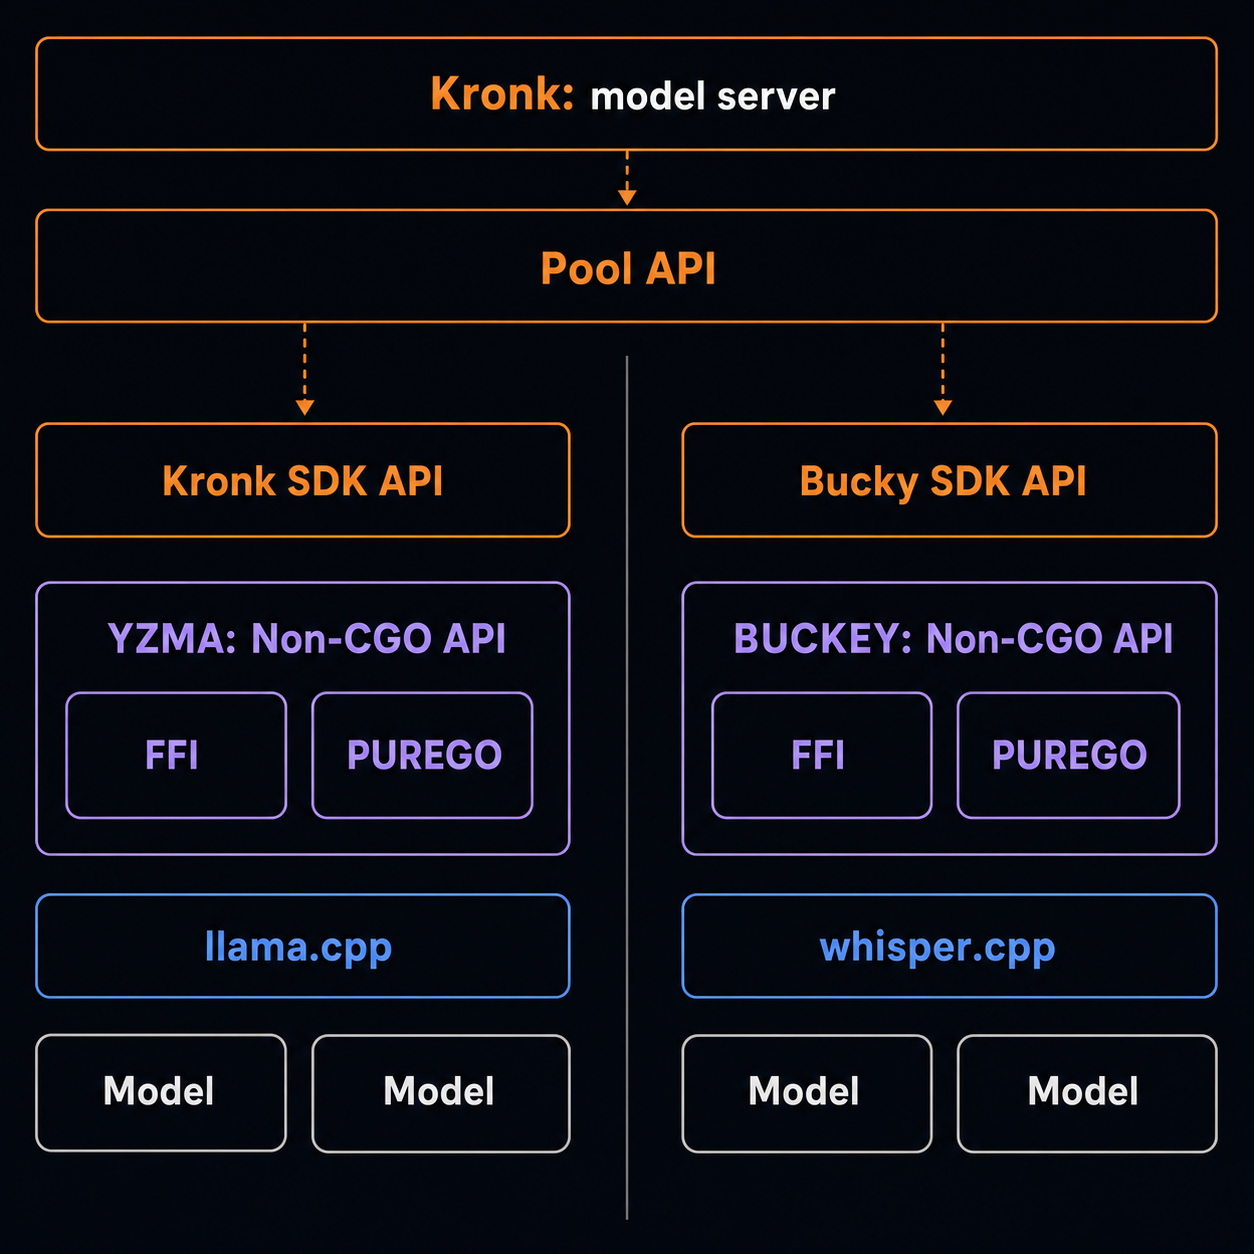
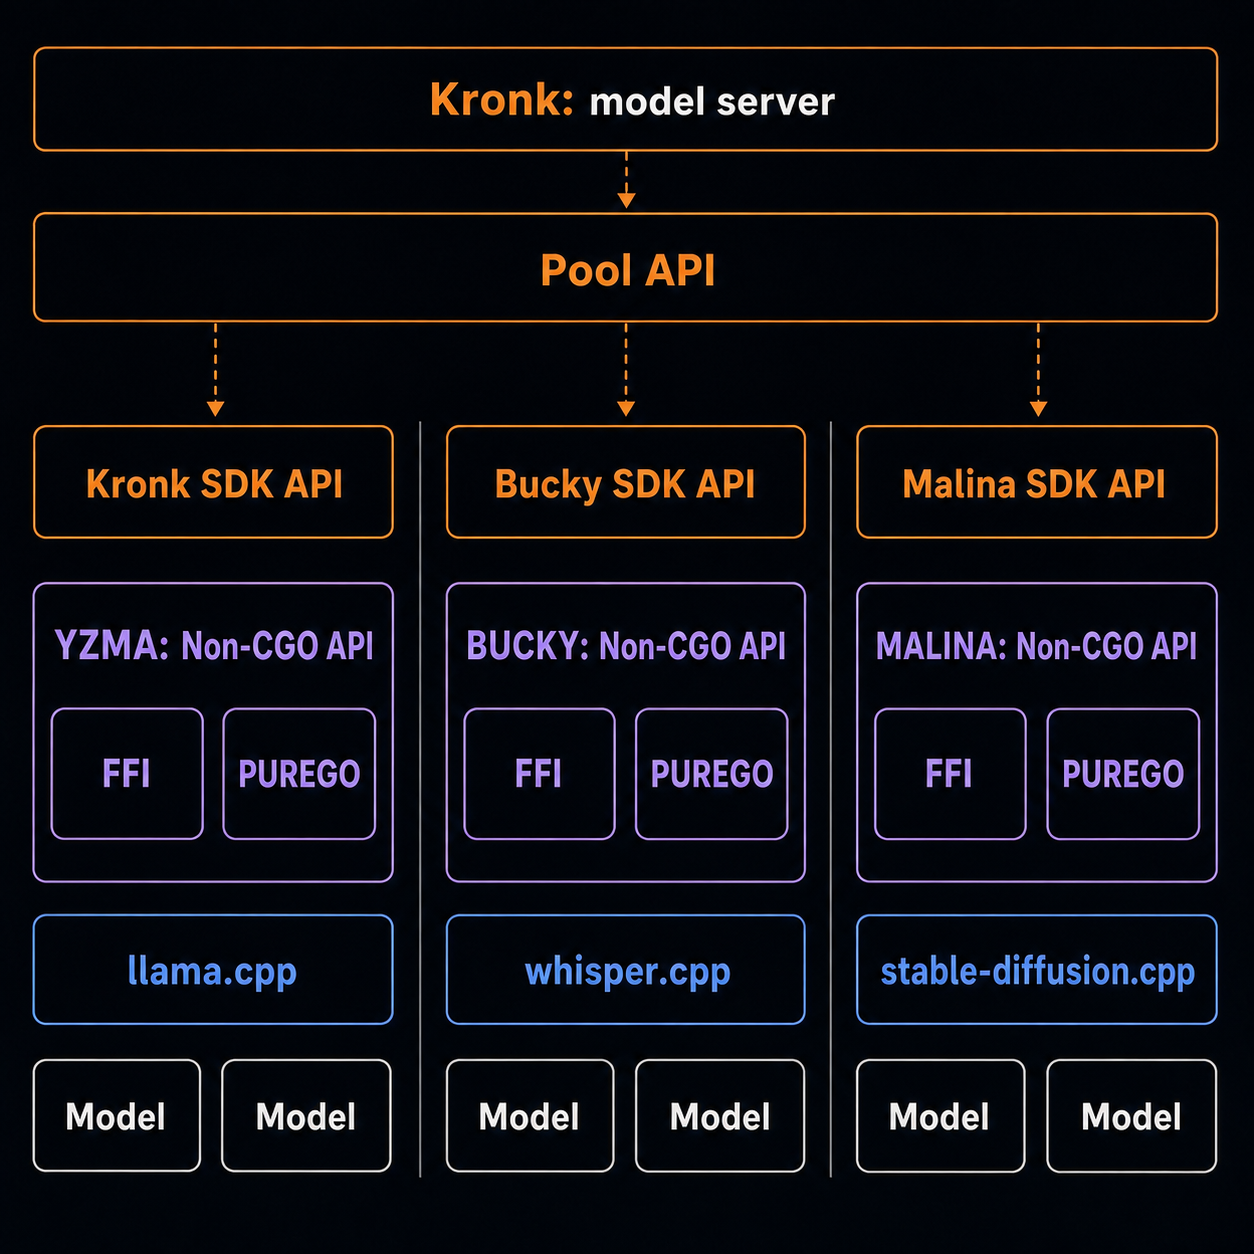
minor improvements

diff --git a/src/index.css b/src/index.css
@@ -244,36 +244,106 @@
   animation-delay: -9s;
 }
 
-/* Bucky landing page — forest/gold palette, independent of site theme */
+/* Bucky landing page — forest/gold palette */
 .bucky-page {
+  --bucky-ink: 248 246 239;
+  --bucky-raised: 241 238 227;
+  --bucky-panel: 255 253 247;
+  --bucky-line: 205 196 174;
+  --bucky-fog: 92 87 72;
+  --bucky-paper: 28 31 25;
+  --bucky-gold: 150 107 37;
+  --bucky-gold-bright: 114 80 26;
+  --bucky-forest: 63 107 79;
+  --bucky-forest-dim: 169 192 174;
+  --bucky-action-ink: 11 12 10;
+  --bucky-action: 215 185 121;
+  --bucky-action-hover: 232 207 154;
+  --bucky-page-mid: 241 238 227;
+  --bucky-forest-glow: 0.16;
+  --bucky-gold-glow: 0.1;
+  --bucky-selection: 0.3;
   font-family: "Sora", ui-sans-serif, sans-serif;
-  color: #ece7d8;
-  background-color: #0b0c0a;
+  color: rgb(var(--bucky-paper));
+  background-color: rgb(var(--bucky-ink));
   background-image:
-    radial-gradient(ellipse 80% 50% at 50% -10%, rgba(63, 107, 79, 0.22), transparent),
-    radial-gradient(ellipse 60% 40% at 100% 0%, rgba(201, 166, 107, 0.08), transparent),
-    linear-gradient(180deg, #0b0c0a 0%, #0e110d 40%, #0b0c0a 100%);
+    radial-gradient(ellipse 80% 50% at 50% -10%, rgb(var(--bucky-forest) / var(--bucky-forest-glow)), transparent),
+    radial-gradient(ellipse 60% 40% at 100% 0%, rgb(var(--bucky-gold) / var(--bucky-gold-glow)), transparent),
+    linear-gradient(180deg, rgb(var(--bucky-ink)) 0%, rgb(var(--bucky-page-mid)) 40%, rgb(var(--bucky-ink)) 100%);
   background-attachment: fixed;
 }
 
 .bucky-page ::selection {
-  background: color-mix(in oklab, #c9a66b 35%, transparent);
-  color: #ece7d8;
+  background: rgb(var(--bucky-gold) / var(--bucky-selection));
+  color: rgb(var(--bucky-paper));
 }
 
-/* Malina landing page — raspberry red / gold / cream, independent of site theme */
+.dark .bucky-page {
+  --bucky-ink: 11 12 10;
+  --bucky-raised: 18 20 16;
+  --bucky-panel: 23 26 20;
+  --bucky-line: 42 47 36;
+  --bucky-fog: 168 164 146;
+  --bucky-paper: 236 231 216;
+  --bucky-gold: 201 166 107;
+  --bucky-gold-bright: 223 192 138;
+  --bucky-forest: 63 107 79;
+  --bucky-forest-dim: 42 70 52;
+  --bucky-page-mid: 14 17 13;
+  --bucky-forest-glow: 0.22;
+  --bucky-gold-glow: 0.08;
+  --bucky-selection: 0.35;
+}
+
+/* Malina landing page — raspberry red / gold / cream */
 .malina-page {
+  --malina-ink: 255 248 246;
+  --malina-raised: 249 238 235;
+  --malina-panel: 255 253 249;
+  --malina-line: 221 186 184;
+  --malina-fog: 112 89 86;
+  --malina-paper: 46 23 25;
+  --malina-gold: 139 101 0;
+  --malina-gold-bright: 113 79 0;
+  --malina-red: 184 35 37;
+  --malina-red-dim: 232 162 164;
+  --malina-pink: 122 28 34;
+  --malina-action-ink: 20 9 11;
+  --malina-action: 232 176 26;
+  --malina-action-hover: 244 200 74;
+  --malina-page-mid: 249 238 235;
+  --malina-red-glow: 0.13;
+  --malina-gold-glow: 0.1;
+  --malina-selection: 0.25;
   font-family: "Sora", ui-sans-serif, sans-serif;
-  color: #f4efe4;
-  background-color: #14090b;
+  color: rgb(var(--malina-paper));
+  background-color: rgb(var(--malina-ink));
   background-image:
-    radial-gradient(ellipse 80% 50% at 50% -10%, rgba(216, 44, 45, 0.22), transparent),
-    radial-gradient(ellipse 60% 40% at 100% 0%, rgba(232, 176, 26, 0.12), transparent),
-    linear-gradient(180deg, #14090b 0%, #1a0c0e 40%, #14090b 100%);
+    radial-gradient(ellipse 80% 50% at 50% -10%, rgb(var(--malina-red) / var(--malina-red-glow)), transparent),
+    radial-gradient(ellipse 60% 40% at 100% 0%, rgb(var(--malina-gold) / var(--malina-gold-glow)), transparent),
+    linear-gradient(180deg, rgb(var(--malina-ink)) 0%, rgb(var(--malina-page-mid)) 40%, rgb(var(--malina-ink)) 100%);
   background-attachment: fixed;
 }
 
 .malina-page ::selection {
-  background: color-mix(in oklab, #d82c2d 40%, transparent);
-  color: #f4efe4;
+  background: rgb(var(--malina-red) / var(--malina-selection));
+  color: rgb(var(--malina-paper));
+}
+
+.dark .malina-page {
+  --malina-ink: 20 9 11;
+  --malina-raised: 28 14 17;
+  --malina-panel: 36 18 20;
+  --malina-line: 74 38 40;
+  --malina-fog: 201 180 174;
+  --malina-paper: 244 239 228;
+  --malina-gold: 232 176 26;
+  --malina-gold-bright: 244 200 74;
+  --malina-red: 216 44 45;
+  --malina-red-dim: 138 28 30;
+  --malina-pink: 247 193 193;
+  --malina-page-mid: 26 12 14;
+  --malina-red-glow: 0.22;
+  --malina-gold-glow: 0.12;
+  --malina-selection: 0.4;
 }

diff --git a/tailwind.config.ts b/tailwind.config.ts
@@ -67,29 +67,35 @@ export default {
           header: "hsl(var(--code-header))",
         },
         bucky: {
-          ink: "#0b0c0a",
-          raised: "#121410",
-          panel: "#171a14",
-          line: "#2a2f24",
-          fog: "#a8a492",
-          paper: "#ece7d8",
-          gold: "#c9a66b",
-          "gold-bright": "#dfc08a",
-          forest: "#3f6b4f",
-          "forest-dim": "#2a4634",
+          ink: "rgb(var(--bucky-ink) / <alpha-value>)",
+          raised: "rgb(var(--bucky-raised) / <alpha-value>)",
+          panel: "rgb(var(--bucky-panel) / <alpha-value>)",
+          line: "rgb(var(--bucky-line) / <alpha-value>)",
+          fog: "rgb(var(--bucky-fog) / <alpha-value>)",
+          paper: "rgb(var(--bucky-paper) / <alpha-value>)",
+          gold: "rgb(var(--bucky-gold) / <alpha-value>)",
+          "gold-bright": "rgb(var(--bucky-gold-bright) / <alpha-value>)",
+          forest: "rgb(var(--bucky-forest) / <alpha-value>)",
+          "forest-dim": "rgb(var(--bucky-forest-dim) / <alpha-value>)",
+          "action-ink": "rgb(var(--bucky-action-ink) / <alpha-value>)",
+          action: "rgb(var(--bucky-action) / <alpha-value>)",
+          "action-hover": "rgb(var(--bucky-action-hover) / <alpha-value>)",
         },
         malina: {
-          ink: "#14090b",
-          raised: "#1c0e11",
-          panel: "#241214",
-          line: "#4a2628",
-          fog: "#c9b4ae",
-          paper: "#f4efe4",
-          gold: "#e8b01a",
-          "gold-bright": "#f4c84a",
-          red: "#d82c2d",
-          "red-dim": "#8a1c1e",
-          pink: "#f7c1c1",
+          ink: "rgb(var(--malina-ink) / <alpha-value>)",
+          raised: "rgb(var(--malina-raised) / <alpha-value>)",
+          panel: "rgb(var(--malina-panel) / <alpha-value>)",
+          line: "rgb(var(--malina-line) / <alpha-value>)",
+          fog: "rgb(var(--malina-fog) / <alpha-value>)",
+          paper: "rgb(var(--malina-paper) / <alpha-value>)",
+          gold: "rgb(var(--malina-gold) / <alpha-value>)",
+          "gold-bright": "rgb(var(--malina-gold-bright) / <alpha-value>)",
+          red: "rgb(var(--malina-red) / <alpha-value>)",
+          "red-dim": "rgb(var(--malina-red-dim) / <alpha-value>)",
+          pink: "rgb(var(--malina-pink) / <alpha-value>)",
+          "action-ink": "rgb(var(--malina-action-ink) / <alpha-value>)",
+          action: "rgb(var(--malina-action) / <alpha-value>)",
+          "action-hover": "rgb(var(--malina-action-hover) / <alpha-value>)",
         },
       },
       borderRadius: {

diff --git a/src/pages/Malina.tsx b/src/pages/Malina.tsx
@@ -80,7 +80,7 @@ function CopyInstallButton({ className = "" }: { className?: string }) {
     <button
       type="button"
       onClick={copy}
-      className={`inline-flex items-center justify-center gap-2 rounded-md bg-malina-gold px-4 py-2.5 text-sm font-semibold text-malina-ink transition hover:bg-malina-gold-bright focus-visible:outline focus-visible:outline-2 focus-visible:outline-offset-2 focus-visible:outline-malina-gold ${className}`}
+      className={`inline-flex items-center justify-center gap-2 rounded-md bg-malina-action px-4 py-2.5 text-sm font-semibold text-malina-action-ink transition hover:bg-malina-action-hover focus-visible:outline focus-visible:outline-2 focus-visible:outline-offset-2 focus-visible:outline-malina-gold ${className}`}
     >
       <span className="font-mono text-[13px]">{copied ? "Copied" : "git clone"}</span>
     </button>
@@ -168,7 +168,7 @@ function Hero() {
           alt="Malina"
           className="absolute -right-2 lg:right-0 -top-[75px] z-10 w-[170px]"
         />
-        <div className="overflow-hidden rounded-xl border border-malina-line bg-malina-panel shadow-[0_24px_80px_rgba(0,0,0,0.45)]">
+        <div className="overflow-hidden rounded-xl border border-malina-line bg-malina-panel shadow-[0_24px_80px_rgba(184,35,37,0.12)] dark:shadow-[0_24px_80px_rgba(0,0,0,0.45)]">
           <div className="flex items-center gap-2 border-b border-malina-line px-4 py-3">
             <span className="h-2.5 w-2.5 rounded-full bg-[#ff5f57]" />
             <span className="h-2.5 w-2.5 rounded-full bg-[#febc2e]" />

diff --git a/src/pages/Bucky.tsx b/src/pages/Bucky.tsx
@@ -80,7 +80,7 @@ function CopyInstallButton({ className = "" }: { className?: string }) {
     <button
       type="button"
       onClick={copy}
-      className={`inline-flex items-center justify-center gap-2 rounded-md bg-bucky-gold px-4 py-2.5 text-sm font-semibold text-bucky-ink transition hover:bg-bucky-gold-bright focus-visible:outline focus-visible:outline-2 focus-visible:outline-offset-2 focus-visible:outline-bucky-gold ${className}`}
+      className={`inline-flex items-center justify-center gap-2 rounded-md bg-bucky-action px-4 py-2.5 text-sm font-semibold text-bucky-action-ink transition hover:bg-bucky-action-hover focus-visible:outline focus-visible:outline-2 focus-visible:outline-offset-2 focus-visible:outline-bucky-gold ${className}`}
     >
       <span className="font-mono text-[13px]">{copied ? "Copied" : "git clone"}</span>
     </button>
@@ -168,7 +168,7 @@ function Hero() {
           alt="Bucky"
           className="absolute right-0 -top-[74px] z-10 w-[155px]"
         />
-        <div className="overflow-hidden rounded-xl border border-bucky-line bg-bucky-panel shadow-[0_24px_80px_rgba(0,0,0,0.45)]">
+        <div className="overflow-hidden rounded-xl border border-bucky-line bg-bucky-panel shadow-[0_24px_80px_rgba(63,107,79,0.14)] dark:shadow-[0_24px_80px_rgba(0,0,0,0.45)]">
           <div className="flex items-center gap-2 border-b border-bucky-line px-4 py-3">
             <span className="h-2.5 w-2.5 rounded-full bg-[#ff5f57]" />
             <span className="h-2.5 w-2.5 rounded-full bg-[#febc2e]" />
